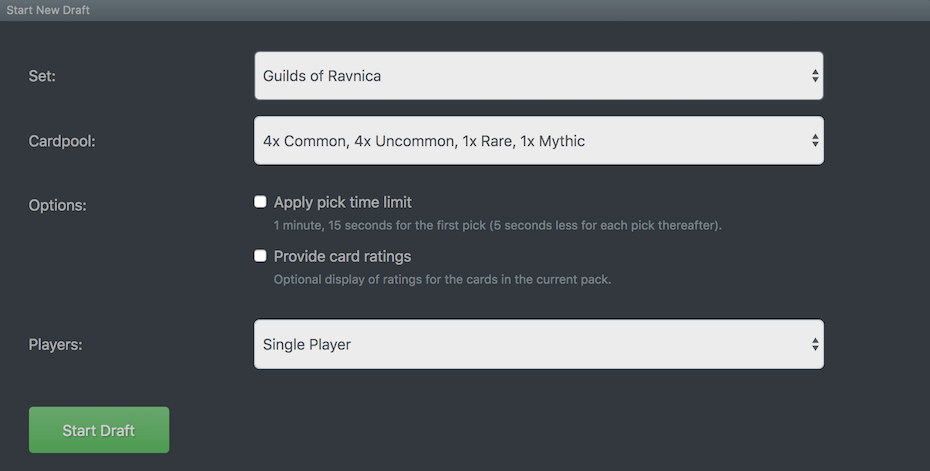
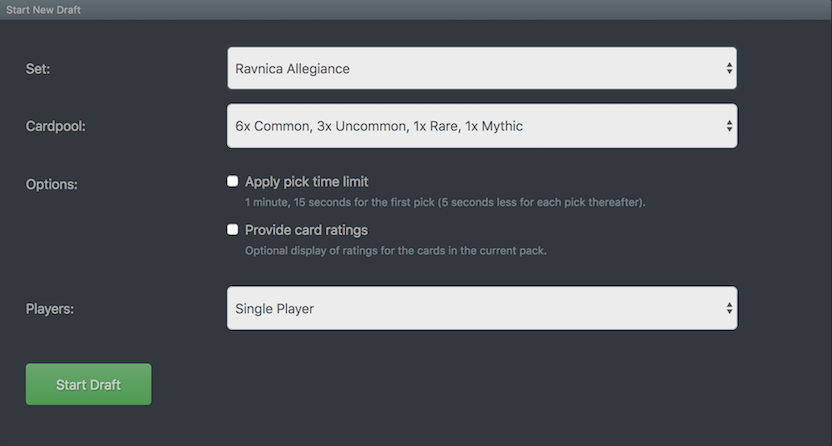
change default cardpool to 6/3/1/1

diff --git a/src/store/getters.js b/src/store/getters.js
@@ -84,26 +84,17 @@ export default {
     return {
       cubes: [
         {
-          value: CARDPOOL.CUBE + '3/2/1/1',
-          caption: '3x Common, 2x Uncommon, 1x Rare, 1x Mythic'
+          value: CARDPOOL.CUBE + '6/3/1/1',
+          caption: '6x Common, 3x Uncommon, 1x Rare, 1x Mythic'
         },
         {
           value: CARDPOOL.CUBE + '4/2/1/1',
           caption: '4x Common, 2x Uncommon, 1x Rare, 1x Mythic'
         },
         {
-          value: CARDPOOL.CUBE + '6/3/1/1',
-          caption: '6x Common, 3x Uncommon, 1x Rare, 1x Mythic'
+          value: CARDPOOL.CUBE + '3/2/1/1',
+          caption: '3x Common, 2x Uncommon, 1x Rare, 1x Mythic'
         },
-        {
-          value: CARDPOOL.CUBE + '4/4/1/1',
-          caption: '4x Common, 4x Uncommon, 1x Rare, 1x Mythic'
-        },
-       
-        {
-          value: CARDPOOL.CUBE + '4/4/0/0',
-          caption: '4x Common, 4x Uncommon'
-        }
       ],
       custom: getters.cardpools(set_code).map(cardpool => {
         return {

diff --git a/src/components/navigator/NavigatorStart.vue b/src/components/navigator/NavigatorStart.vue
@@ -40,7 +40,7 @@ export default {
   data: function() {
     return {
       set_code: 'rna',
-      cardpool: CARDPOOL.CUBE + '4/2/1/1',
+      cardpool: CARDPOOL.CUBE + '6/3/1/1',
       pick_timer: false,
       pick_ratings: false,
       players: 'single',
@@ -330,7 +330,7 @@ export default {
           this.cardpool = set_prefs.cardpool;
         }
       } else {
-        this.cardpool = CARDPOOL.CUBE + '4/2/1/1';
+        this.cardpool = CARDPOOL.CUBE + '6/3/1/1';
       }
     },
 
